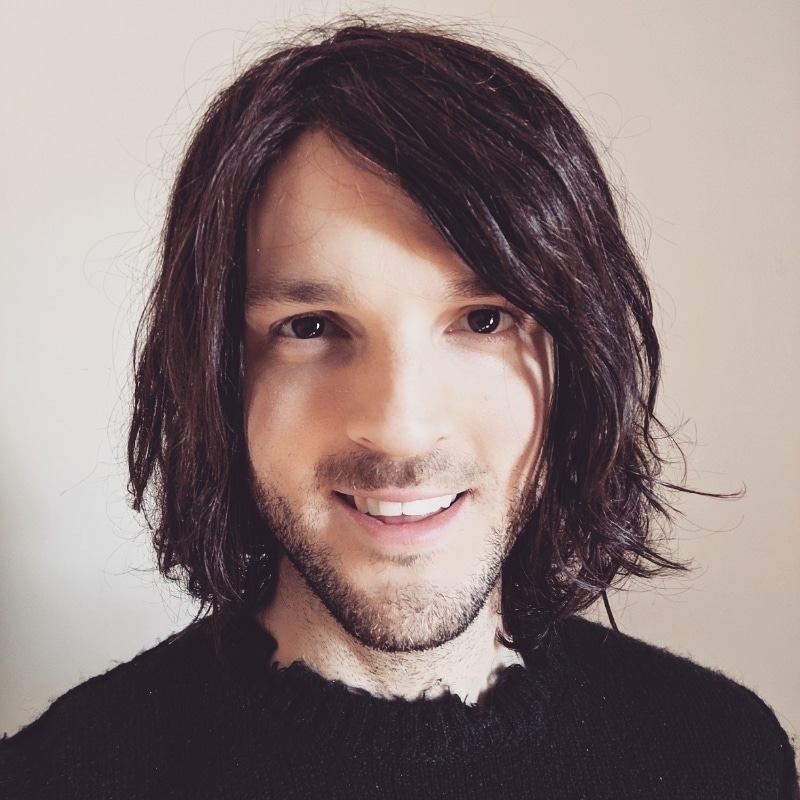
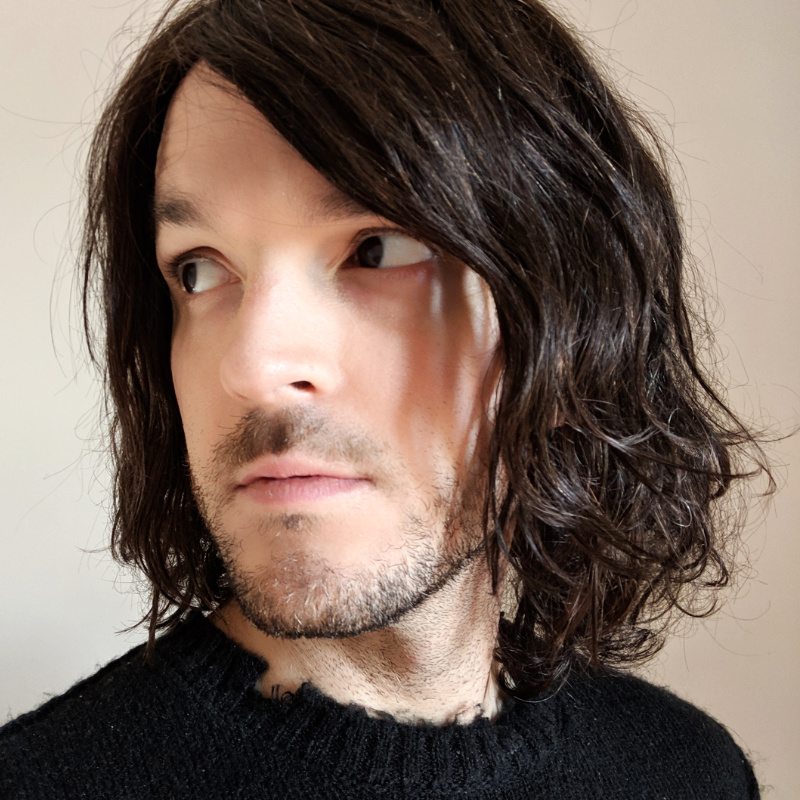
Update intro image

diff --git a/scss/sections/_intro.scss b/scss/sections/_intro.scss
@@ -43,11 +43,6 @@
 
     &:hover {
       border-color: transparent;
-
-      // &::after {
-      //   margin-top: 0;
-      //   margin-left: 0;
-      // }
     }
 
     img {
@@ -68,7 +63,6 @@
     height: auto;
     width: $intro-image-size;
     border-radius: $intro-image-size;
-    filter: brightness(110%) contrast(110%);
 
     @media screen and (max-width: $mediumdevice) {
       width: ($intro-image-size - 160px);
